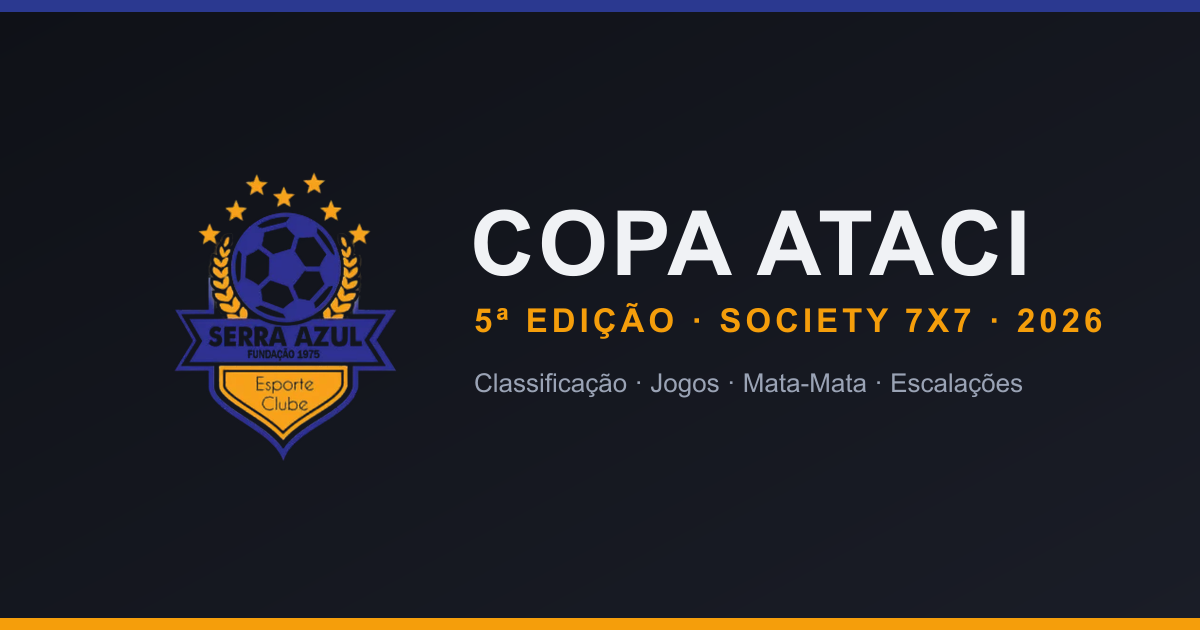
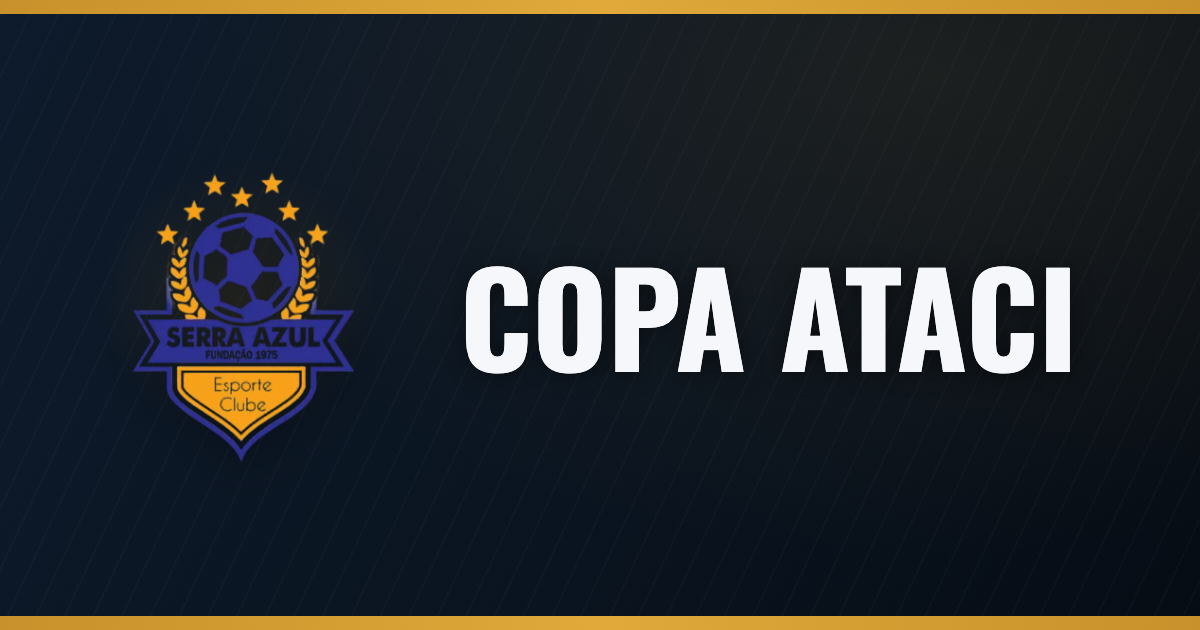
feat(og-image): implement dynamic Open Graph image generation with Playwright

diff --git a/scripts/og-image/og-image.html b/scripts/og-image/og-image.html
@@ -1,0 +1,174 @@
+<!doctype html>
+<!--
+  Fonte EDITÁVEL do banner de compartilhamento (Open Graph) — public/og-image.png.
+
+  NÃO edite o PNG à mão: edite este arquivo e rode `npm run og:build`, que renderiza
+  esta página no Chromium (via Playwright) para public/og-image.png em 1200×630.
+
+  Os marcadores __PLACEHOLDER__ abaixo são preenchidos pelo gerador (build-og.mjs):
+    - Fontes (Oswald/Inter) e o logo são injetados como data URIs → HTML autocontido.
+    - Os textos vêm de config (defaults no gerador; sobrescreva por variáveis de ambiente).
+  Para mudar layout/cores/tipografia, edite o CSS aqui — é só HTML/CSS padrão.
+-->
+<html lang="pt-BR">
+  <head>
+    <meta charset="UTF-8" />
+    <style>
+      /* Fontes self-hosted (mesmas do portal), embutidas pelo gerador. */
+      @font-face {
+        font-family: 'Oswald';
+        font-style: normal;
+        font-weight: 600;
+        src: url(__OSWALD_FONT__) format('woff2');
+      }
+      @font-face {
+        font-family: 'Oswald';
+        font-style: normal;
+        font-weight: 700;
+        src: url(__OSWALD_FONT__) format('woff2');
+      }
+      @font-face {
+        font-family: 'Inter';
+        font-style: normal;
+        font-weight: 500;
+        src: url(__INTER_FONT__) format('woff2');
+      }
+
+      :root {
+        /* Paleta — espelha src/index.css */
+        --navy: #0e1b2c;        /* azul-serra escuro */
+        --navy-2: #060c14;      /* fim do gradiente, quase preto */
+        --accent: #c8912b;      /* dourado troféu */
+        --accent-2: #e0a93a;    /* dourado mais claro p/ realce */
+        --white: #f5f7fa;
+        --muted: #94a3b8;       /* cinza-azulado da linha de recursos */
+      }
+
+      * { margin: 0; padding: 0; box-sizing: border-box; }
+
+      html, body { width: 1200px; height: 630px; }
+
+      /* Palco do banner. #stage é o alvo do screenshot (1200×630 exatos). */
+      #stage {
+        position: relative;
+        width: 1200px;
+        height: 630px;
+        overflow: hidden;
+        background:
+          radial-gradient(120% 140% at 78% 12%, rgba(200, 145, 43, 0.10), transparent 55%),
+          linear-gradient(120deg, var(--navy) 0%, #0a1420 55%, var(--navy-2) 100%);
+        font-family: 'Inter', system-ui, sans-serif;
+      }
+
+      /* Barras douradas topo/base — assinatura do banner. */
+      #stage::before,
+      #stage::after {
+        content: '';
+        position: absolute;
+        left: 0;
+        right: 0;
+        height: 14px;
+        background: linear-gradient(90deg, var(--accent) 0%, var(--accent-2) 50%, var(--accent) 100%);
+      }
+      #stage::before { top: 0; }
+      #stage::after { bottom: 0; }
+
+      /* Leve textura de "gramado" em diagonal, bem sutil, p/ dar profundidade. */
+      .grain {
+        position: absolute;
+        inset: 14px 0;
+        background-image: repeating-linear-gradient(
+          115deg,
+          rgba(255, 255, 255, 0.018) 0px,
+          rgba(255, 255, 255, 0.018) 2px,
+          transparent 2px,
+          transparent 26px
+        );
+        pointer-events: none;
+      }
+
+      .content {
+        position: absolute;
+        inset: 14px 0;
+        display: flex;
+        align-items: center;
+        gap: 72px;
+        padding: 0 88px;
+      }
+
+      .logo-wrap {
+        flex: 0 0 auto;
+        width: 300px;
+        height: 300px;
+        display: flex;
+        align-items: center;
+        justify-content: center;
+        /* halo dourado suave atrás do escudo */
+        background: radial-gradient(circle at 50% 45%, rgba(200, 145, 43, 0.16), transparent 62%);
+      }
+      .logo-wrap img {
+        width: 300px;
+        height: 300px;
+        object-fit: contain;
+        filter: drop-shadow(0 10px 26px rgba(0, 0, 0, 0.45));
+      }
+
+      .text { display: flex; flex-direction: column; min-width: 0; }
+
+      .title {
+        font-family: 'Oswald', sans-serif;
+        font-weight: 700;
+        font-size: 128px;
+        line-height: 0.92;
+        letter-spacing: 0.5px;
+        color: var(--white);
+        text-transform: uppercase;
+        text-shadow: 0 3px 22px rgba(0, 0, 0, 0.45);
+      }
+
+      .subtitle {
+        margin-top: 18px;
+        font-family: 'Oswald', sans-serif;
+        font-weight: 600;
+        font-size: 39px;
+        letter-spacing: 4px;
+        color: var(--accent-2);
+        text-transform: uppercase;
+        white-space: nowrap;
+      }
+
+      /* Régua dourada curta separando subtítulo dos recursos. */
+      .rule {
+        margin-top: 26px;
+        width: 132px;
+        height: 5px;
+        border-radius: 3px;
+        background: linear-gradient(90deg, var(--accent-2), var(--accent));
+      }
+
+      .features {
+        margin-top: 22px;
+        font-family: 'Inter', sans-serif;
+        font-weight: 500;
+        font-size: 31px;
+        letter-spacing: 0.4px;
+        color: var(--muted);
+        white-space: nowrap;
+      }
+      .features .dot { color: var(--accent); padding: 0 8px; }
+    </style>
+  </head>
+  <body>
+    <div id="stage">
+      <div class="grain"></div>
+      <div class="content">
+        <div class="logo-wrap">
+          <img src="__LOGO__" alt="" />
+        </div>
+        <div class="text">
+          <div class="title">__TITLE__</div>
+        </div>
+      </div>
+    </div>
+  </body>
+</html>

diff --git a/README.md b/README.md
@@ -242,9 +242,11 @@ Garanta que o projeto no Cloudflare Pages tenha:
 
 ### Notas de produção
 
-- **OG image:** o banner de compartilhamento fica em `public/og-image.png`
-  (1200×630, referenciado por `site.config.json`). Para trocar a arte, substitua
-  o PNG mantendo as dimensões.
+- **OG image:** o banner de compartilhamento (`public/og-image.png`, 1200×630,
+  referenciado por `site.config.json`) é **gerado** a partir de uma fonte editável
+  em `scripts/og-image/og-image.html`. Para trocar a arte, edite o HTML/CSS (ou
+  passe `OG_TITLE` / `OG_SUBTITLE` / `OG_FEATURES`) e rode `npm run og:build`, que
+  renderiza a página no Chromium (Playwright) para o PNG. Não edite o PNG à mão.
 - **Fontes:** Inter e Oswald são *self-hosted* (`public/fonts/*.woff2`), sem
   dependência do Google Fonts em runtime.
 - **Cache:** leituras (`GET /api/*`) têm `cache-control` curto no edge; mutações
